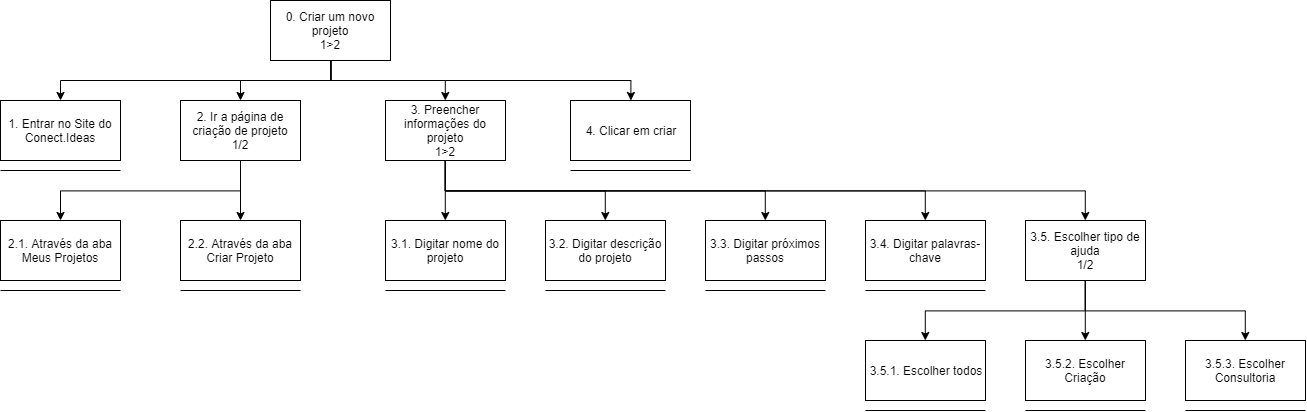
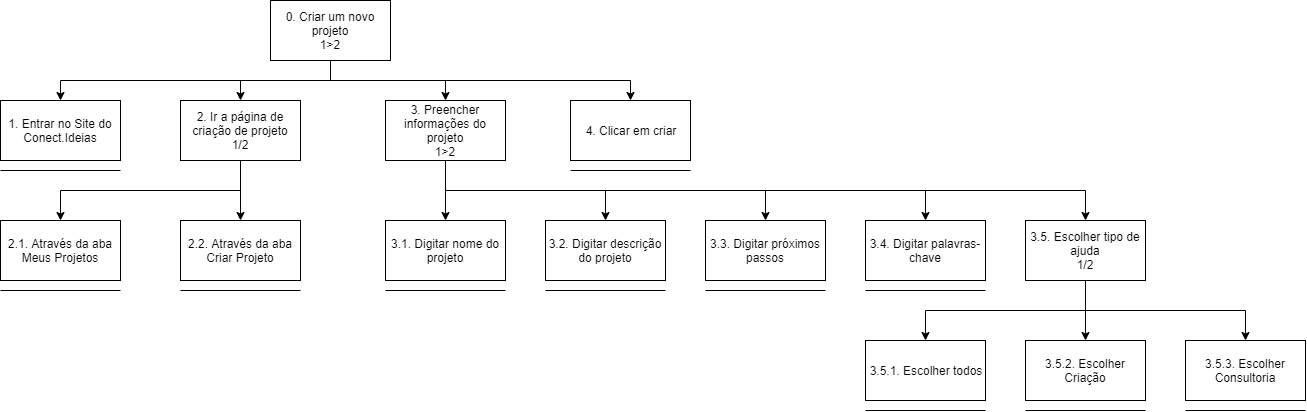
Fixing minor mispelling errors

diff --git a/docs/hta.md b/docs/hta.md
@@ -30,6 +30,11 @@
 		<td>Adição de referências</td>
 		<td>05/11/2019</td>
 	</tr>
+	<tr>
+		<td>1.3</td>
+		<td>Correção de erros nos diagramas</td>
+		<td>05/11/2019</td>
+	</tr>
 </table>
 
 ## Registro
